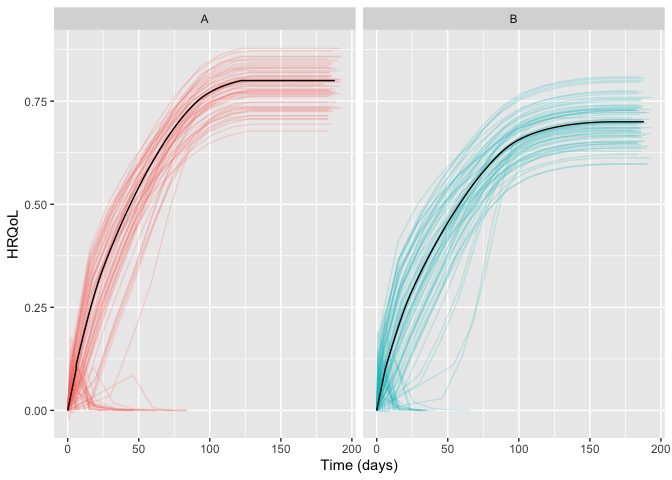
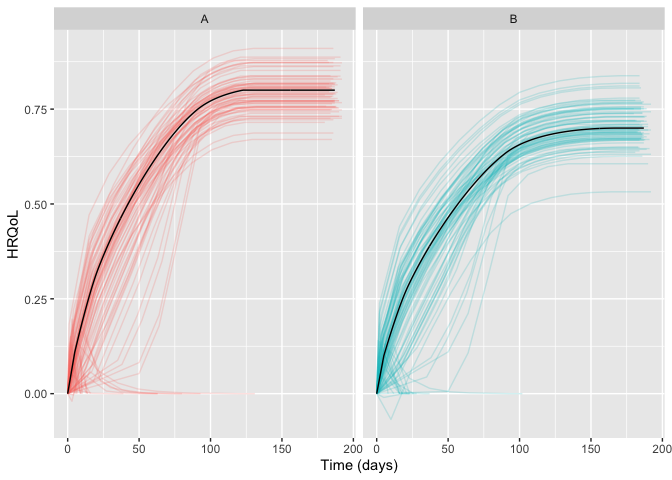
Update README

diff --git a/README.md b/README.md
@@ -50,18 +50,21 @@ remotes::install_github("INCEPTdk/hrqolr@dev")
 
 ## Example
 
-First, load the package and use the cache (the latter is optional but
-highly recommended):
+First, load the package:
 
 ``` r
 library(hrqolr)
-cache_hrqolr()
+#> Loading 'hrqolr' package v0.0.9000.
+#> For help, run 'help("hrqolr")' or check out https://inceptdk.github.io/hrqolr/.
+#> Consider running 'cache_hrqolr()' for faster simulations. If you have enough RAM, increasing the cache size might speed up things even more; 
+#> run '?cache_hrqolr' for details.
 ```
 
-    #> Loading 'hrqolr' package v0.0.9000.
-    #> For help, run 'help("hrqolr")' or check out https://inceptdk.github.io/hrqolr/.
-    #> Consider running 'cache_hrqolr()' for faster simulations. If you have enough RAM, increasing the cache size might speed up things even more; 
-    #> run '?cache_hrqolr' for details.
+–then, we activate the cache. This is optional but highly recommended.
+
+``` r
+cache_hrqolr()
+```
 
 `hrqolr` was built to simulate many scenarios, but here we define a
 single scenario and use `do.call` to give the list elements as named
@@ -76,6 +79,7 @@ scenario <- list(
     n_example_trajectories_per_arm = 100L,
     
     arms = c("A", "B"),
+    index_hrqol = c(A = 0.0, B = 0.0),
     first_hrqol = c(A = 0.1, B = 0.1),
     final_hrqol = c(A = 0.8, B = 0.7),
     acceleration_hrqol = c(A = 0.1, B = 0.0),
@@ -92,30 +96,30 @@ example_trajs
 #> $arm_level
 #>      arm          x         y
 #>   1:   A   0.000000 0.0000000
-#>   2:   A   6.000000 0.1000000
-#>   3:   A   6.006612 0.1100942
-#>   4:   A   6.019197 0.1102476
-#>   5:   A   6.037682 0.1104924
+#>   2:   A   5.000000 0.1100000
+#>   3:   A   5.006211 0.1100609
+#>   4:   A   5.017999 0.1102155
+#>   5:   A   5.035294 0.1104622
 #>  ---                         
-#> 594:   B 187.599173 0.7000000
-#> 595:   B 187.758853 0.7000000
-#> 596:   B 187.879320 0.7000000
-#> 597:   B 187.959920 0.7000000
-#> 598:   B 188.000000 0.7000000
+#> 594:   B 186.604774 0.7000000
+#> 595:   B 186.762172 0.7000000
+#> 596:   B 186.880937 0.7000000
+#> 597:   B 186.960426 0.7000000
+#> 598:   B 187.000000 0.7000000
 #> 
 #> $patient_level
-#>       arm  id  x     y
-#>    1:   A   1  0 0.000
-#>    2:   A   1  5 0.069
-#>    3:   A   1 19 0.001
-#>    4:   A   1 29 0.000
-#>    5:   A   2  0 0.000
-#>   ---                 
-#> 2008:   B 200  0 0.000
-#> 2009:   B 200  2 0.076
-#> 2010:   B 200 16 0.003
-#> 2011:   B 200 30 0.000
-#> 2012:   B 200 31 0.000
+#>       arm  id   x         y
+#>    1:   A   1   0 0.0000000
+#>    2:   A   1   9 0.1210000
+#>    3:   A   1  10 0.0000000
+#>    4:   A   2   0 0.0000000
+#>    5:   A   2  50 0.0820000
+#>   ---                      
+#> 2252:   B 200 133 0.7223143
+#> 2253:   B 200 147 0.7280000
+#> 2254:   B 200 161 0.7310000
+#> 2255:   B 200 175 0.7310000
+#> 2256:   B 200 189 0.7310000
 #> 
 #> attr(,"class")
 #> [1] "hrqolr_trajectories" "list"
@@ -161,104 +165,104 @@ number of trials:
 
 ``` r
 sims <- do.call(simulate_trials, scenario)
-#> 2023-10-04 13:28:11: Estimating ground truth of arm A (0 secs)
-#> 2023-10-04 13:28:23: Finished arm 'A' in batch (11.65 secs)
-#> 2023-10-04 13:28:23: Estimating ground truth of arm B (11.65 secs)
-#> 2023-10-04 13:28:34: Finished arm 'B' in batch (11.87 secs)
-#> 2023-10-04 13:28:35: Finished batch (12.16 secs)
-#> 2023-10-04 13:28:35: Combining data into final return struct (23.98 secs)
-#> 2023-10-04 13:28:35: Wrapping up, returning output (24 secs)
+#> 2023-10-04 14:38:31: Estimating ground truth of arm A (0 secs)
+#> 2023-10-04 14:38:43: Finished arm 'A' in batch (12.09 secs)
+#> 2023-10-04 14:38:43: Estimating ground truth of arm B (12.09 secs)
+#> 2023-10-04 14:38:56: Finished arm 'B' in batch (13.08 secs)
+#> 2023-10-04 14:38:56: Finished batch (13.32 secs)
+#> 2023-10-04 14:38:56: Combining data into final return struct (25.53 secs)
+#> 2023-10-04 14:38:56: Wrapping up, returning output (25.56 secs)
 sims
 #> $summary_stats
 #>                      outcome arm  analysis         p25         p50         p75
-#>  1:    primary__hrqol_at_eof   A       all   0.4460350   0.4748150   0.4979300
-#>  2:    primary__hrqol_at_eof   B       all   0.4015075   0.4167300   0.4406425
-#>  3:       primary__hrqol_auc   A       all  65.1016037  69.1245868  72.7448068
-#>  4:       primary__hrqol_auc   B       all  57.7815977  60.1711131  63.2145848
-#>  5: secondary1__hrqol_at_eof   A       all   0.4463500   0.4748150   0.4979300
-#>  6: secondary1__hrqol_at_eof   B       all   0.4015075   0.4167300   0.4406425
-#>  7:    secondary1__hrqol_auc   A       all  65.1718127  69.1450280  72.8792007
-#>  8:    secondary1__hrqol_auc   B       all  57.5728169  59.9190753  63.0337151
-#>  9: secondary2__hrqol_at_eof   A       all   0.4463500   0.4751850   0.4979300
-#> 10: secondary2__hrqol_at_eof   B       all   0.4015075   0.4167300   0.4406425
-#> 11:    secondary2__hrqol_auc   A       all  61.1651845  65.2535614  68.3865671
-#> 12:    secondary2__hrqol_auc   B       all  54.0907006  56.0916555  59.3521862
-#> 13:    primary__hrqol_at_eof   A survivors   0.5567248   0.5869051   0.6090046
-#> 14:    primary__hrqol_at_eof   B survivors   0.4964365   0.5151127   0.5372631
-#> 15:       primary__hrqol_auc   A survivors  81.3868823  85.8290526  89.0517142
-#> 16:       primary__hrqol_auc   B survivors  71.6281198  74.0262050  77.5885824
-#> 17: secondary1__hrqol_at_eof   A survivors   0.6631789   0.6851342   0.7054652
-#> 18: secondary1__hrqol_at_eof   B survivors   0.5900841   0.6080055   0.6254059
-#> 19:    secondary1__hrqol_auc   A survivors  96.6082731 100.1041982 102.8356674
-#> 20:    secondary1__hrqol_auc   B survivors  84.5858339  87.5287880  89.8515006
-#> 21: secondary2__hrqol_at_eof   A survivors   0.7780358   0.7854113   0.7913703
-#> 22: secondary2__hrqol_at_eof   B survivors   0.6897976   0.6960922   0.7017559
-#> 23:    secondary2__hrqol_auc   A survivors 106.8054207 107.5461193 108.4934903
-#> 24:    secondary2__hrqol_auc   B survivors  93.0185856  93.8269045  94.7945101
+#>  1:    primary__hrqol_at_eof   A       all   0.4545150   0.4755350   0.4976625
+#>  2:    primary__hrqol_at_eof   B       all   0.3945425   0.4183150   0.4411500
+#>  3:       primary__hrqol_auc   A       all  66.3712879  69.6579439  72.7747194
+#>  4:       primary__hrqol_auc   B       all  56.7253300  60.5214887  63.3352651
+#>  5: secondary1__hrqol_at_eof   A       all   0.4545150   0.4755350   0.4976625
+#>  6: secondary1__hrqol_at_eof   B       all   0.3952650   0.4183150   0.4411500
+#>  7:    secondary1__hrqol_auc   A       all  66.3337672  69.5726049  72.7028925
+#>  8:    secondary1__hrqol_auc   B       all  56.6950110  60.3027054  63.2218979
+#>  9: secondary2__hrqol_at_eof   A       all   0.4545150   0.4755350   0.4976625
+#> 10: secondary2__hrqol_at_eof   B       all   0.3952650   0.4183150   0.4411500
+#> 11:    secondary2__hrqol_auc   A       all  62.3874079  65.2913302  68.1377208
+#> 12:    secondary2__hrqol_auc   B       all  53.1958311  56.4383943  59.4447974
+#> 13:    primary__hrqol_at_eof   A survivors   0.5600473   0.5840513   0.6082282
+#> 14:    primary__hrqol_at_eof   B survivors   0.4885596   0.5106373   0.5340828
+#> 15:       primary__hrqol_auc   A survivors  82.1101393  85.3571708  89.2243108
+#> 16:       primary__hrqol_auc   B survivors  70.3347862  73.7634297  77.0674439
+#> 17: secondary1__hrqol_at_eof   A survivors   0.6596208   0.6860463   0.7071192
+#> 18: secondary1__hrqol_at_eof   B survivors   0.5881867   0.6071097   0.6259293
+#> 19:    secondary1__hrqol_auc   A survivors  96.5894743 100.5117371 102.8966477
+#> 20:    secondary1__hrqol_auc   B survivors  84.5784544  87.1273619  90.2613489
+#> 21: secondary2__hrqol_at_eof   A survivors   0.7758056   0.7846061   0.7922107
+#> 22: secondary2__hrqol_at_eof   B survivors   0.6889943   0.6959494   0.7015797
+#> 23:    secondary2__hrqol_auc   A survivors 106.5290293 107.5943341 108.5483765
+#> 24:    secondary2__hrqol_auc   B survivors  92.8010617  93.7169985  94.5147982
 #>                      outcome arm  analysis         p25         p50         p75
 #>            mean          sd           se
-#>  1:   0.4731701 0.033771639 0.0033771639
-#>  2:   0.4185806 0.030862069 0.0030862069
-#>  3:  69.1468218 4.892519920 0.4892519920
-#>  4:  60.3052667 4.363589761 0.4363589761
-#>  5:   0.4732429 0.033721267 0.0033721267
-#>  6:   0.4185806 0.030862069 0.0030862069
-#>  7:  69.1363186 4.898652682 0.4898652682
-#>  8:  60.1075714 4.381346215 0.4381346215
-#>  9:   0.4733220 0.033729423 0.0033729423
-#> 10:   0.4185806 0.030862069 0.0030862069
-#> 11:  64.8850589 4.660190014 0.4660190014
-#> 12:  56.4429778 4.156057045 0.4156057045
-#> 13:   0.5824747 0.035393473 0.0035393473
-#> 14:   0.5159788 0.032010054 0.0032010054
-#> 15:  85.1250952 5.200096569 0.5200096569
-#> 16:  74.3382879 4.501288435 0.4501288435
-#> 17:   0.6843284 0.029210800 0.0029210800
-#> 18:   0.6080730 0.028233052 0.0028233052
-#> 19:  99.9797894 4.348651257 0.4348651257
-#> 20:  87.3212845 3.984078449 0.3984078449
-#> 21:   0.7843637 0.010666770 0.0010666770
-#> 22:   0.6954244 0.009095548 0.0009095548
-#> 23: 107.5208910 1.526983119 0.1526983119
-#> 24:  93.7769288 1.374818100 0.1374818100
+#>  1:   0.4757633 0.033922731 0.0033922731
+#>  2:   0.4156550 0.035100797 0.0035100797
+#>  3:  69.6804500 4.949652678 0.4949652678
+#>  4:  59.9142122 4.997006133 0.4997006133
+#>  5:   0.4760869 0.033855927 0.0033855927
+#>  6:   0.4159338 0.035238449 0.0035238449
+#>  7:  69.6316306 4.947023786 0.4947023786
+#>  8:  59.7486650 5.029279108 0.5029279108
+#>  9:   0.4760869 0.033855927 0.0033855927
+#> 10:   0.4159338 0.035238449 0.0035238449
+#> 11:  65.2738004 4.633036904 0.4633036904
+#> 12:  56.0319007 4.733978947 0.4733978947
+#> 13:   0.5844709 0.034916038 0.0034916038
+#> 14:   0.5118941 0.035819467 0.0035819467
+#> 15:  85.6050894 5.150381886 0.5150381886
+#> 16:  73.7888922 5.108277033 0.5108277033
+#> 17:   0.6828919 0.032447747 0.0032447747
+#> 18:   0.6072027 0.028211609 0.0028211609
+#> 19:  99.8836155 4.850081013 0.4850081013
+#> 20:  87.2285342 4.063915778 0.4063915778
+#> 21:   0.7834906 0.011557565 0.0011557565
+#> 22:   0.6948380 0.009294728 0.0009294728
+#> 23: 107.4226576 1.657530848 0.1657530848
+#> 24:  93.6059112 1.302426009 0.1302426009
 #>            mean          sd           se
 #> 
 #> $comparisons
 #>                     outcome        mean mean_ground_truth         sd
-#> 1:    primary__hrqol_at_eof  -0.0545895         -0.076729 0.04845081
-#> 2:       primary__hrqol_auc -10.7868073        -12.802088 7.10298282
-#> 3: secondary1__hrqol_at_eof  -0.0546623         -0.076729 0.04839718
-#> 4:    secondary1__hrqol_auc -12.6585049        -14.772580 6.14791188
-#> 5: secondary2__hrqol_at_eof  -0.0547414         -0.076729 0.04841054
-#> 6:    secondary2__hrqol_auc -13.7439622        -13.746453 1.89937945
+#> 1:    primary__hrqol_at_eof  -0.0601083         -0.077066 0.05247630
+#> 2:       primary__hrqol_auc -11.8161973        -14.389573 7.62188493
+#> 3: secondary1__hrqol_at_eof  -0.0601531         -0.077066 0.05238591
+#> 4:    secondary1__hrqol_auc -12.6550813        -15.024230 6.10626065
+#> 5: secondary2__hrqol_at_eof  -0.0601531         -0.077066 0.05238591
+#> 6:    secondary2__hrqol_auc -13.8167464        -13.076459 1.91552865
 #>             se  analysis comparator target       bias     bias_se relative_bias
-#> 1: 0.004845081       all          A      B 0.02213950 0.004845081 -0.2885414902
-#> 2: 0.710298282 survivors          A      B 2.01528108 0.710298282 -0.1574181511
-#> 3: 0.004839718       all          A      B 0.02206670 0.004839718 -0.2875926964
-#> 4: 0.614791188 survivors          A      B 2.11407543 0.614791188 -0.1431080680
-#> 5: 0.004841054       all          A      B 0.02198760 0.004841054 -0.2865617954
-#> 6: 0.189937945 survivors          A      B 0.00249097 0.189937945 -0.0001812082
+#> 1: 0.005247630       all          A      B  0.0169577 0.005247630   -0.22004126
+#> 2: 0.762188493 survivors          A      B  2.5733754 0.762188493   -0.17883613
+#> 3: 0.005238591       all          A      B  0.0169129 0.005238591   -0.21945994
+#> 4: 0.610626065 survivors          A      B  2.3691489 0.610626065   -0.15768854
+#> 5: 0.005238591       all          A      B  0.0169129 0.005238591   -0.21945994
+#> 6: 0.191552865 survivors          A      B -0.7402870 0.191552865    0.05661219
 #>    relative_bias_se          mse       mse_se coverage coverage_se
-#> 1:       0.06314537  0.002814164 0.0003686050     0.95 0.021794495
-#> 2:       0.05548300 54.009199182 8.0919130400     0.93 0.025514702
-#> 3:       0.06307548  0.002805804 0.0003684904     0.95 0.021794495
-#> 4:       0.04161705 41.888167204 5.3951322238     0.94 0.023748684
-#> 5:       0.06309289  0.002803599 0.0003686472     0.95 0.021794495
-#> 6:       0.01381723  3.571572074 0.5277862727     0.99 0.009949874
+#> 1:       0.06809267  0.003013788 0.0004480764     0.94  0.02374868
+#> 2:       0.05296811 64.134459638 9.0517072872     0.93  0.02551470
+#> 3:       0.06797539  0.003002887 0.0004521019     0.94  0.02374868
+#> 4:       0.04064275 42.526421575 5.8198356812     0.96  0.01959592
+#> 5:       0.06797539  0.003002887 0.0004521019     0.94  0.02374868
+#> 6:       0.01464868  4.180582305 0.6382570299     0.96  0.01959592
 #>    bias_corrected_coverage bias_corrected_coverage_se rejection_proportion
-#> 1:                    0.97                0.017058722                 0.14
-#> 2:                    0.96                0.019595918                 0.30
-#> 3:                    0.97                0.017058722                 0.14
-#> 4:                    0.96                0.019595918                 0.51
-#> 5:                    0.97                0.017058722                 0.14
-#> 6:                    0.99                0.009949874                 1.00
-#>    rejection_proportion_se n_sim       p25        p50         p75
-#> 1:              0.03469870   100  -0.09154  -0.059025  -0.0155550
-#> 2:              0.04582576   100 -15.95160 -12.031723  -6.9757454
-#> 3:              0.03469870   100  -0.09154  -0.059025  -0.0162975
-#> 4:              0.04999000   100 -17.03828 -12.874600  -8.7383204
-#> 5:              0.03469870   100  -0.09154  -0.060380  -0.0162975
-#> 6:              0.00000000   100 -14.86056 -13.791520 -12.8265296
+#> 1:                    0.94                 0.02374868                 0.22
+#> 2:                    0.93                 0.02551470                 0.34
+#> 3:                    0.93                 0.02551470                 0.22
+#> 4:                    0.97                 0.01705872                 0.50
+#> 5:                    0.93                 0.02551470                 0.22
+#> 6:                    0.97                 0.01705872                 0.99
+#>    rejection_proportion_se n_sim         p25       p50        p75
+#> 1:             0.041424630   100  -0.0936775  -0.05713  -0.023330
+#> 2:             0.047370877   100 -17.2428597 -11.42719  -6.922696
+#> 3:             0.041424630   100  -0.0936775  -0.05713  -0.024570
+#> 4:             0.050000000   100 -16.2669058 -13.18206  -8.144643
+#> 5:             0.041424630   100  -0.0936775  -0.05713  -0.024570
+#> 6:             0.009949874   100 -15.0271941 -13.84674 -12.683173
 #> 
 #> $args
 #> $args$n_trials
@@ -278,6 +282,10 @@ sims
 #> 
 #> $args$arms
 #> [1] "A" "B"
+#> 
+#> $args$index_hrqol
+#> A B 
+#> 0 0 
 #> 
 #> $args$first_hrqol
 #>   A   B 
@@ -317,7 +325,7 @@ sims
 #> [1] 3
 #> 
 #> $args$seed
-#> [1] -974329927
+#> [1] -1508126091
 #> 
 #> $args$valid_hrqol_range
 #> c(-0.757, 1)
@@ -330,10 +338,10 @@ sims
 #> $arm_level
 #>      arm          x         y
 #>   1:   A   0.000000 0.0000000
-#>   2:   A   5.000000 0.1000000
-#>   3:   A   5.006211 0.1100946
-#>   4:   A   5.017999 0.1102491
-#>   5:   A   5.035294 0.1104958
+#>   2:   A   5.000000 0.1100000
+#>   3:   A   5.006211 0.1100609
+#>   4:   A   5.017999 0.1102155
+#>   5:   A   5.035294 0.1104622
 #>  ---                         
 #> 594:   B 186.604774 0.7000000
 #> 595:   B 186.762172 0.7000000
@@ -342,24 +350,24 @@ sims
 #> 598:   B 187.000000 0.7000000
 #> 
 #> $patient_level
-#>       arm  id  x     y
-#>    1:   A   1  0 0.000
-#>    2:   A   1  5    NA
-#>    3:   A   2  0 0.000
-#>    4:   A   2  3 0.059
-#>    5:   A   2 17 0.295
-#>   ---                 
-#> 2007:   B 199  9 0.063
-#> 2008:   B 199 23 0.000
-#> 2009:   B 199 27 0.000
-#> 2010:   B 200  0 0.000
-#> 2011:   B 200 11    NA
+#>       arm  id   x         y
+#>    1:   A   1   0 0.0000000
+#>    2:   A   1  10 0.1230000
+#>    3:   A   1  24 0.2803429
+#>    4:   A   1  38 0.4094467
+#>    5:   A   1  52 0.5276908
+#>   ---                      
+#> 2049:   B 200 127 0.6598121
+#> 2050:   B 200 141 0.6680000
+#> 2051:   B 200 155 0.6730000
+#> 2052:   B 200 169 0.6750000
+#> 2053:   B 200 183 0.6750000
 #> 
 #> attr(,"class")
 #> [1] "hrqolr_trajectories" "list"               
 #> 
 #> $elapsed_time
-#> Time difference of 24.26471 secs
+#> Time difference of 25.82849 secs
 #> 
 #> attr(,"class")
 #> [1] "hrqolr_results" "list"
@@ -395,7 +403,7 @@ Changes to the code base should follow these steps:
 
 ## Citation
 
-If using the package, please consider citing it:
+If using `hrqolr`, please consider citing it:
 
 ``` r
 citation(package = "hrqolr")
